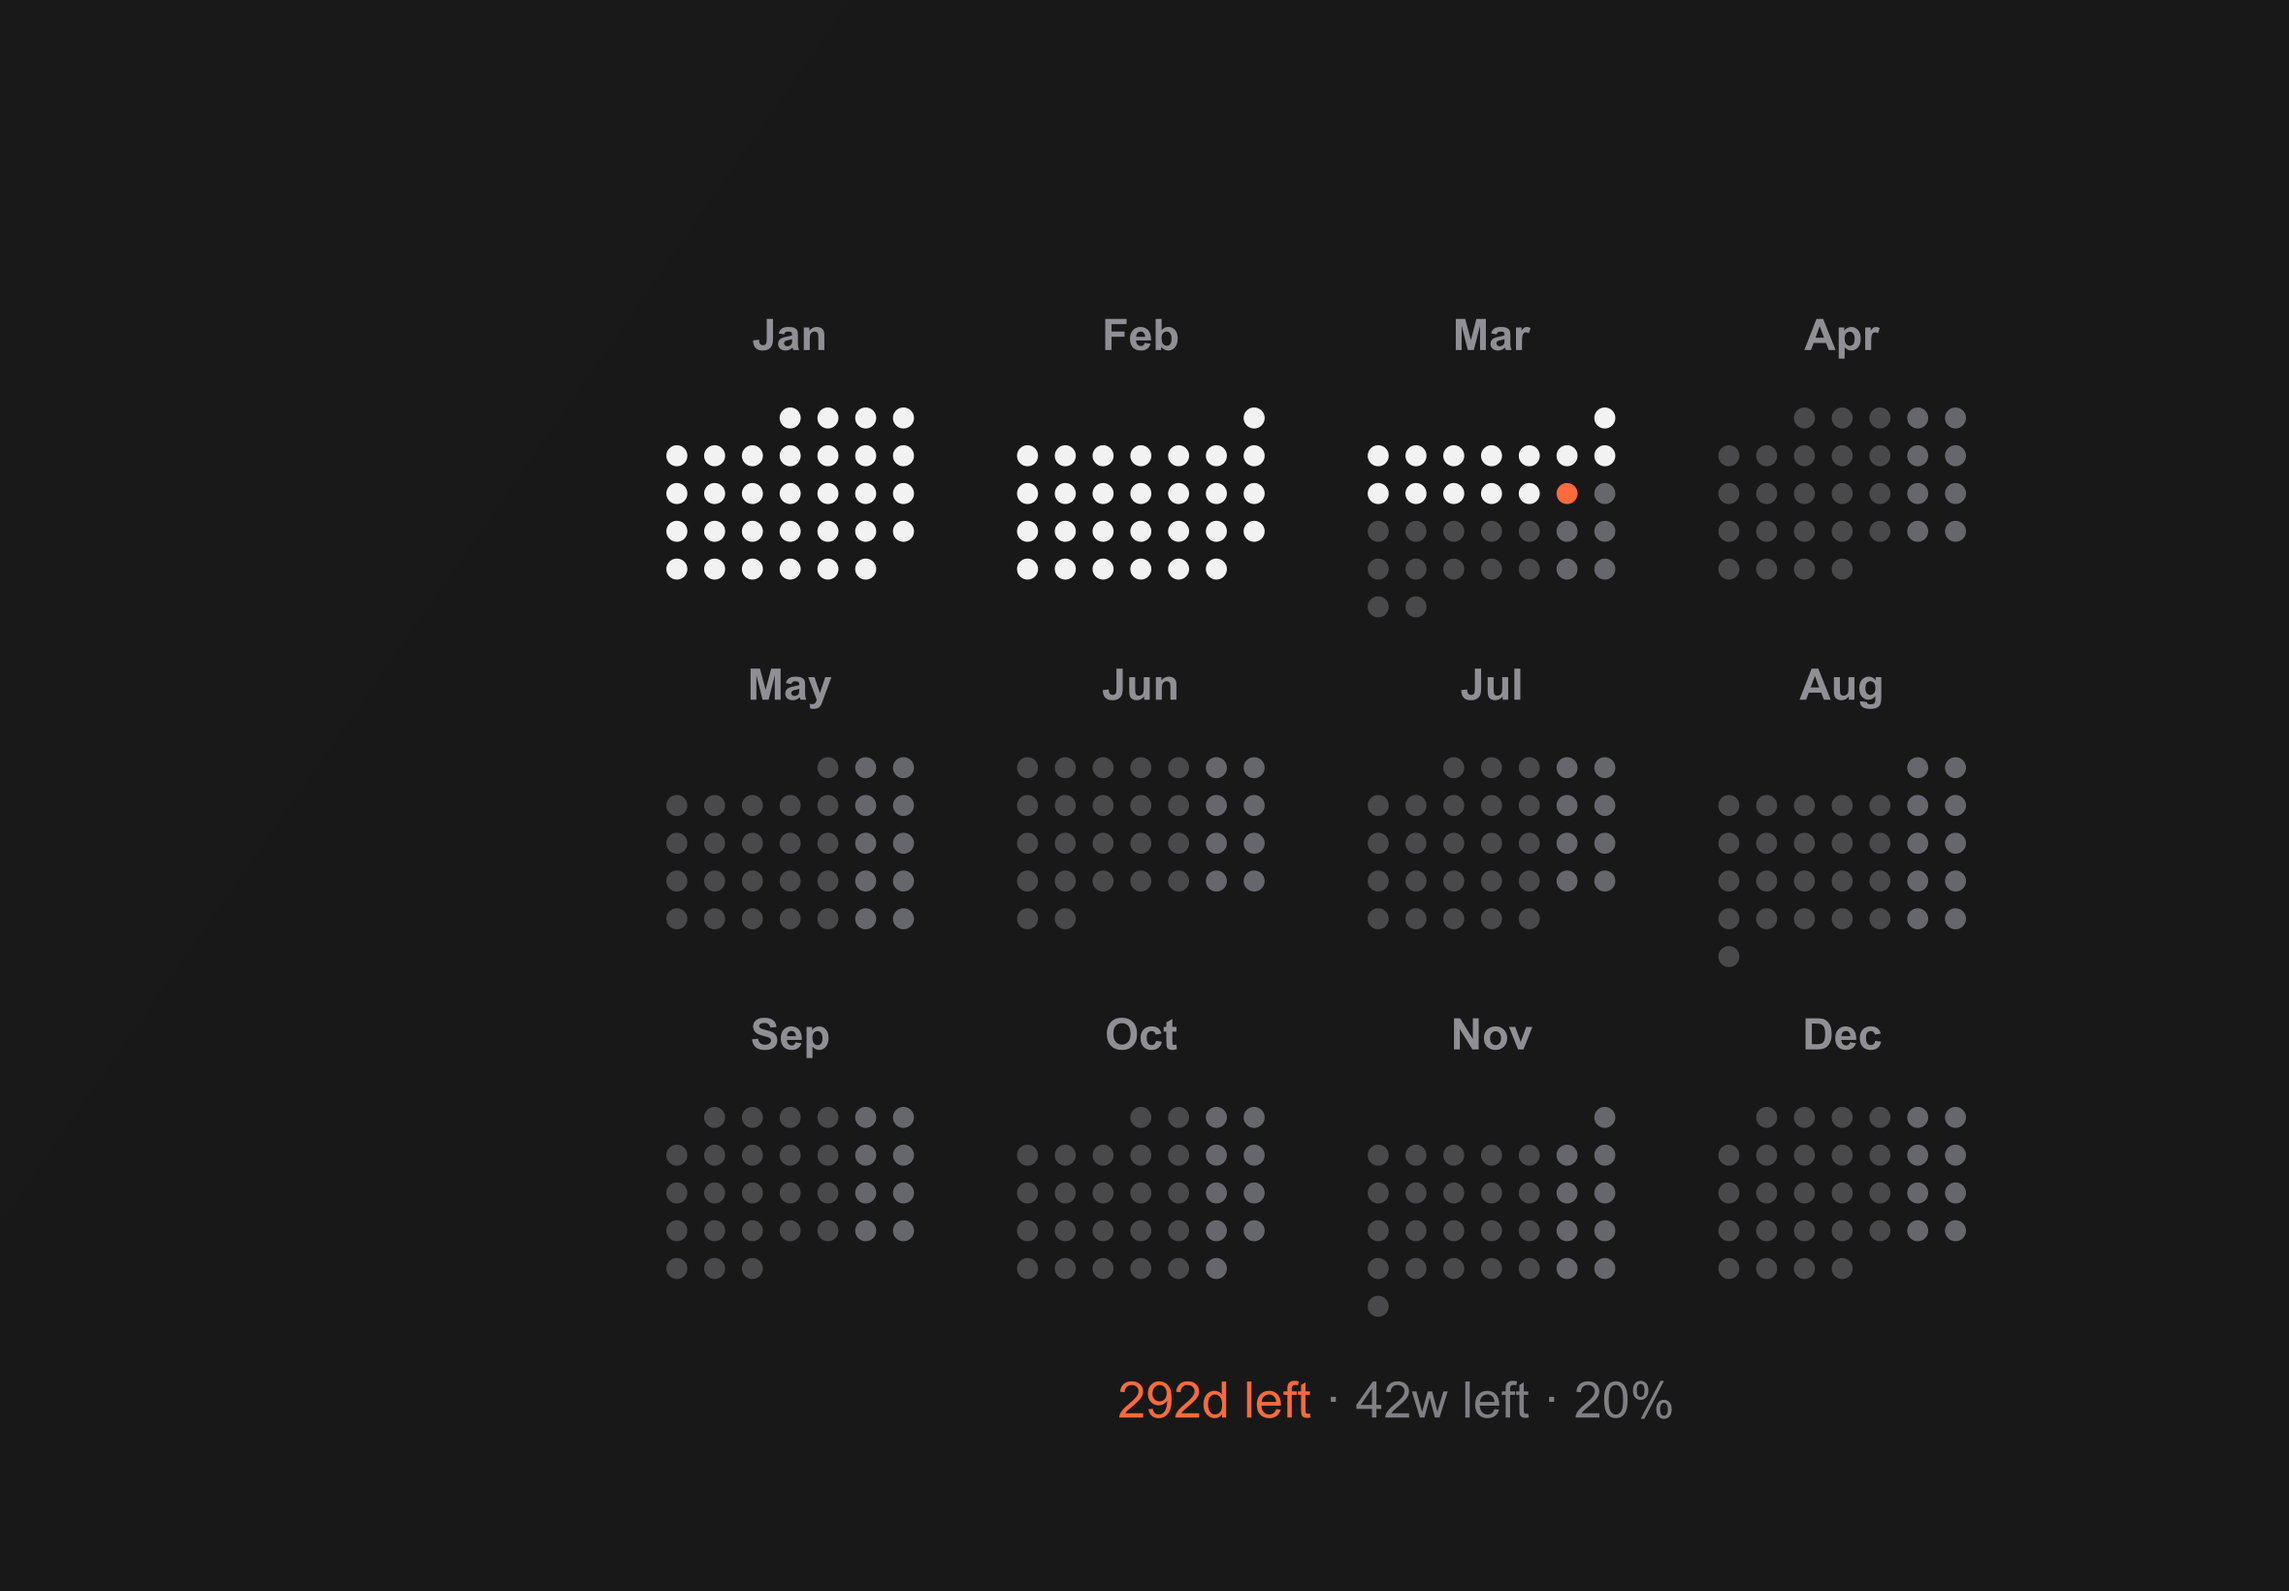
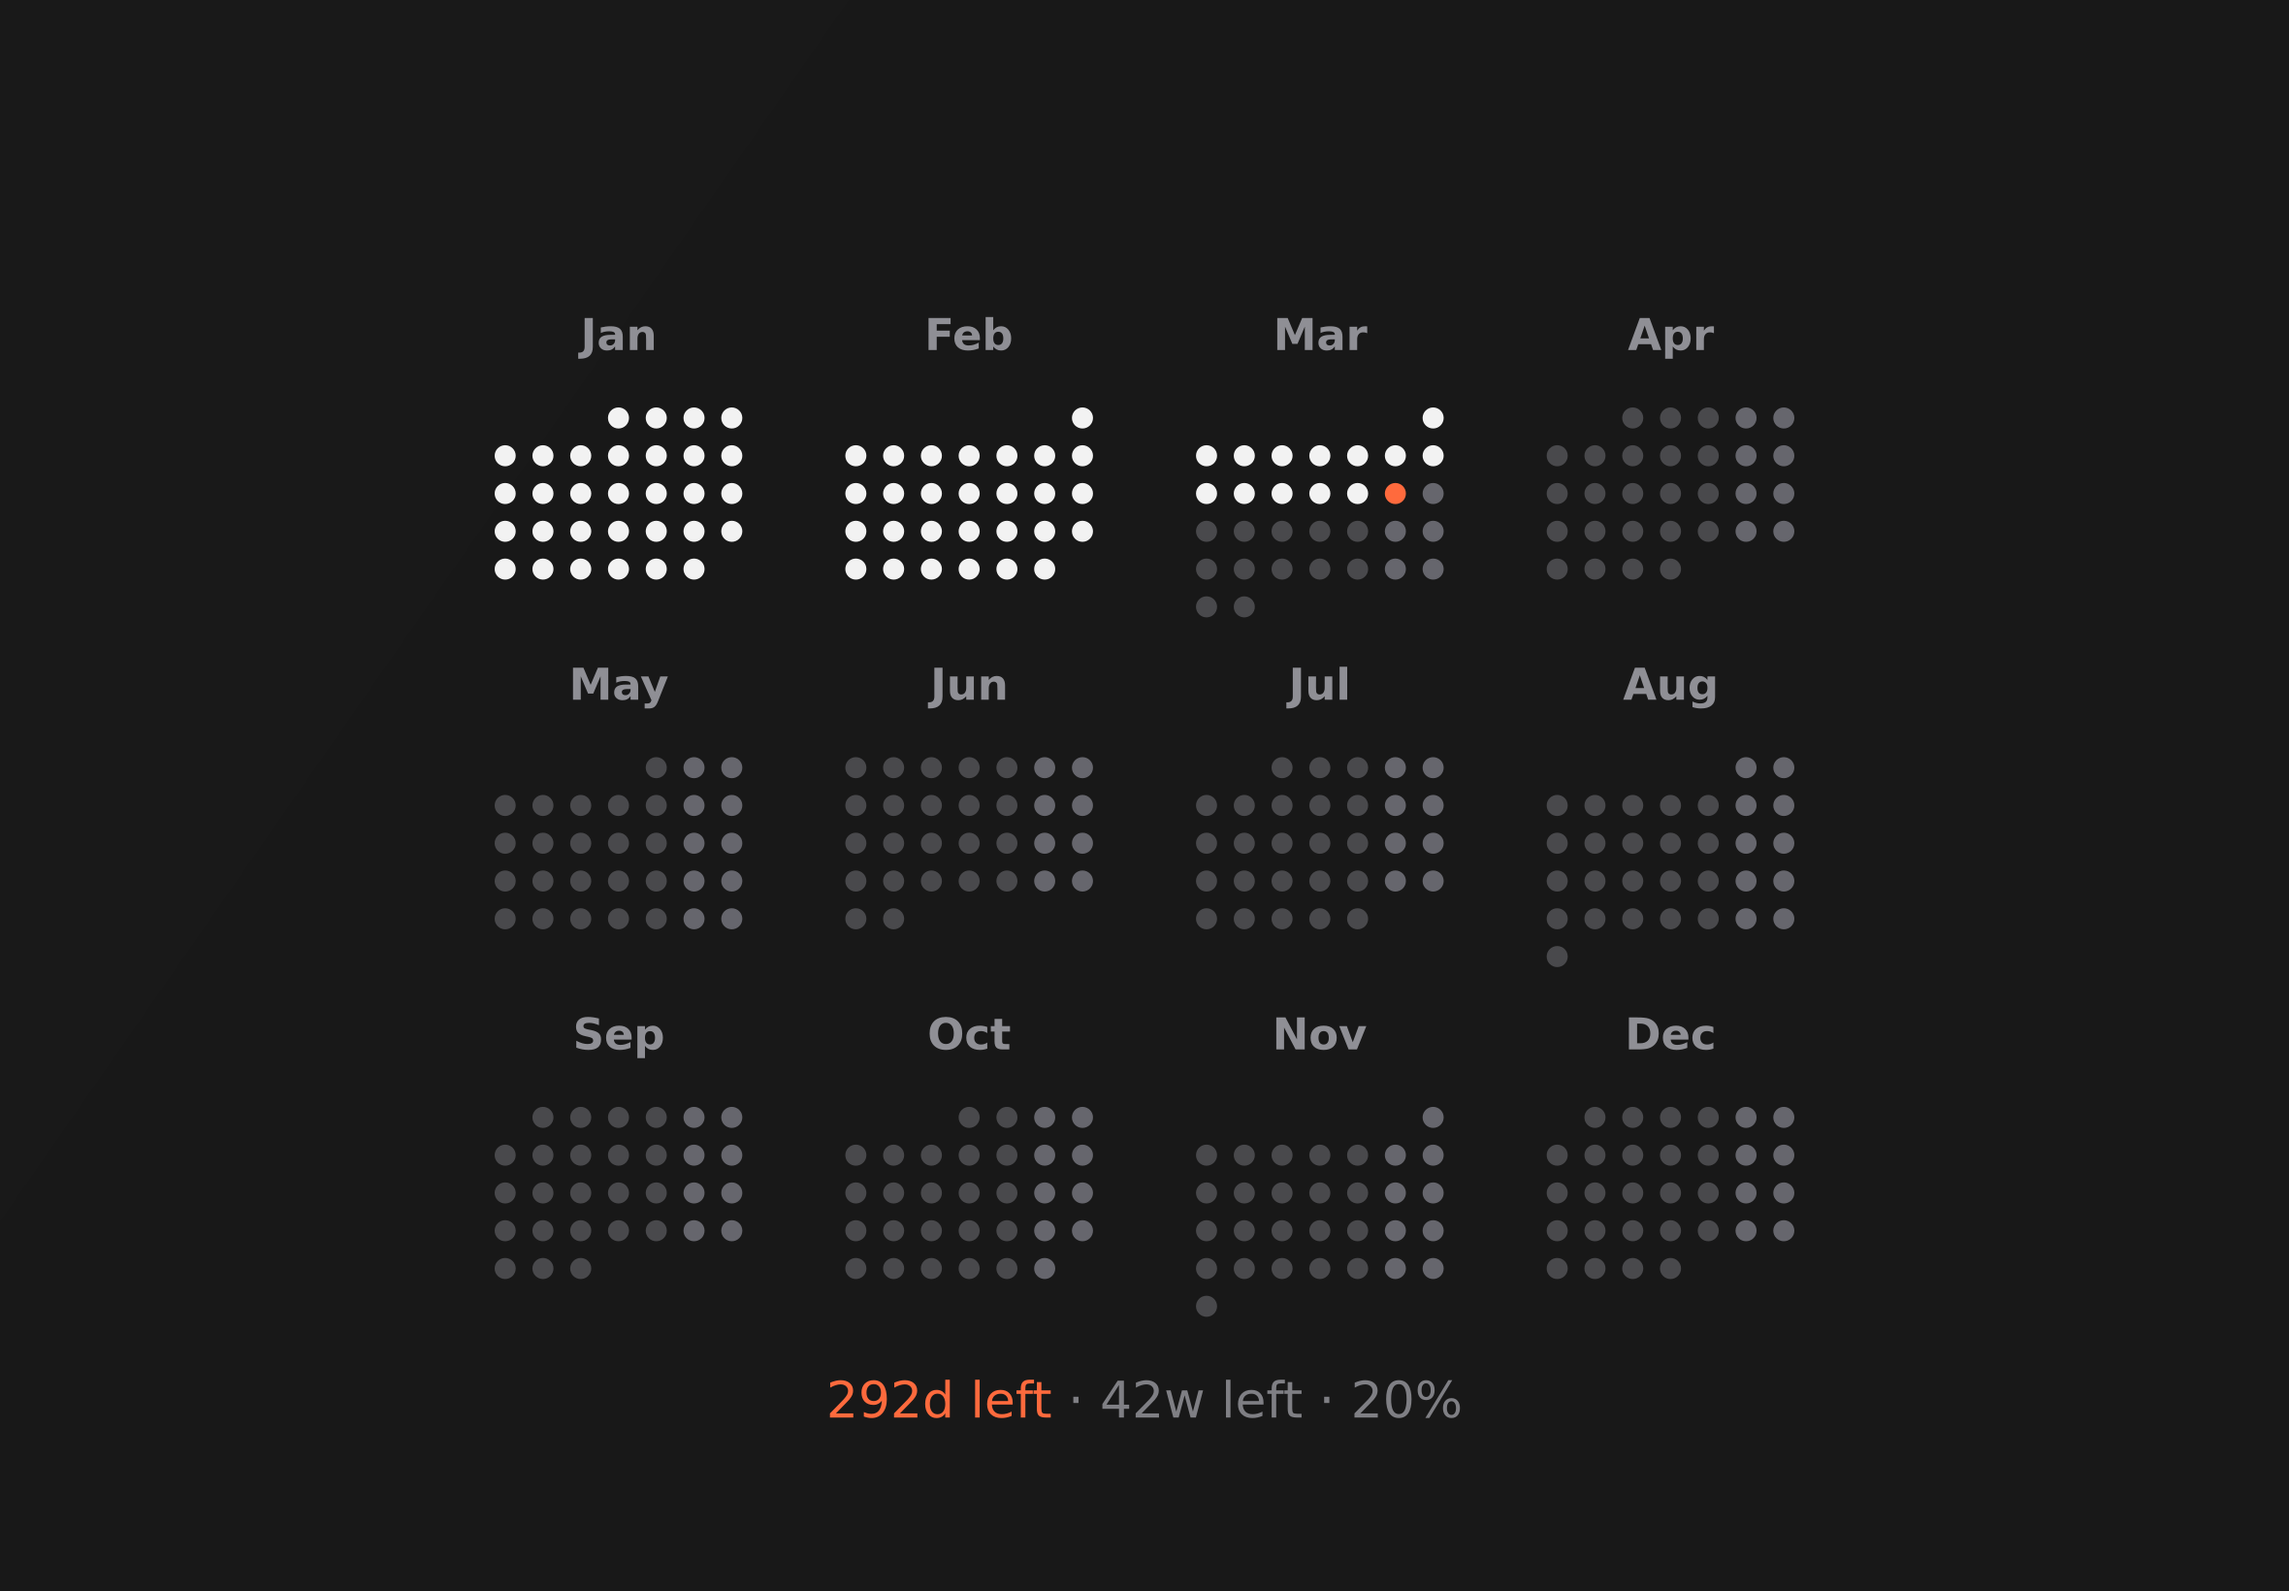
Center iPad landscape calendar layout

diff --git a/configs/ipad-landscape.js b/configs/ipad-landscape.js
@@ -15,7 +15,6 @@ module.exports = {
     topPaddingRatio: 0.22,
     monthGapYRatio: 0.05,
     monthGapXRatio: 0.045,
-    startXOffsetRatio: 0.075,
     monthLabelSizeRatio: 0.019,
     monthLabelMinPx: 30,
     monthLabelGapRatio: 1.32,
@@ -25,9 +24,7 @@ module.exports = {
   progress: {
     show: true,
     textSizeRatio: 0.022,
-    bottomInsetRatio: 0.12,
-    availableWidthRatio: 0.72,
-    startXOffsetRatio: 0.11
+    bottomInsetRatio: 0.12
   },
   colors: SHARED_COLORS,
   fontFamily: FONT_FAMILY
